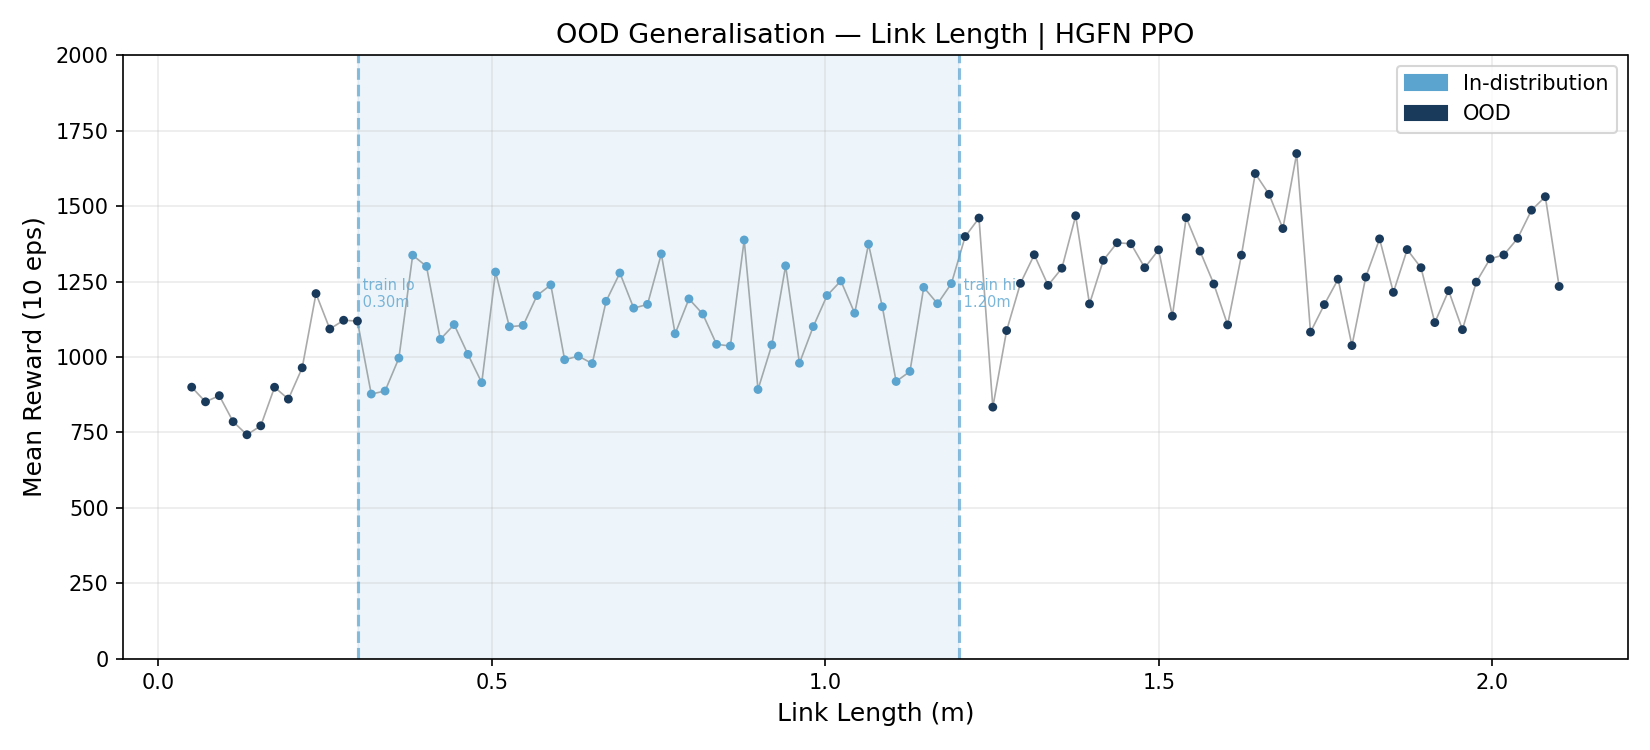
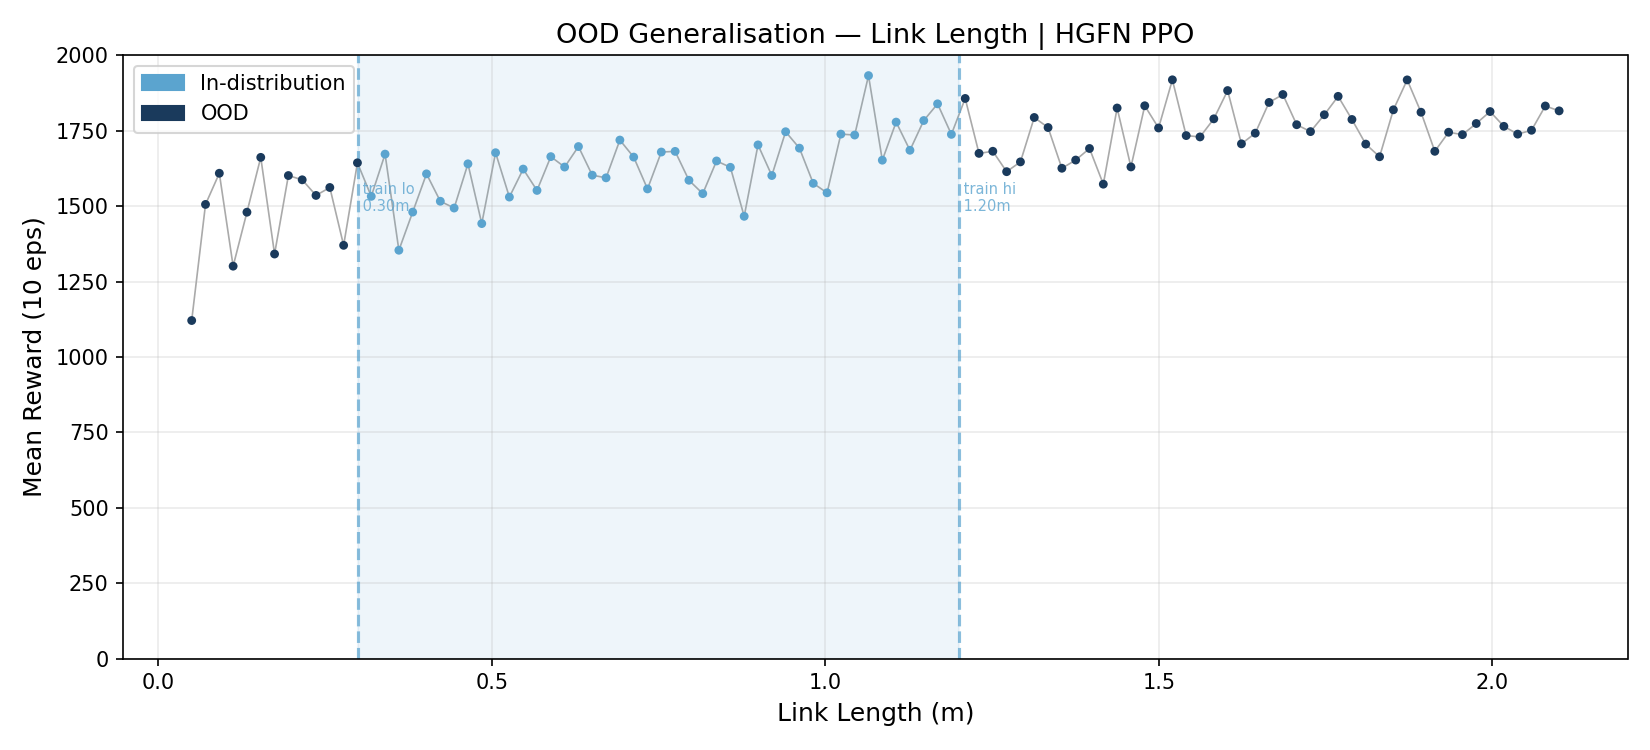
update results

diff --git a/eval/eval_hgfn.py b/eval/eval_hgfn.py
@@ -387,10 +387,8 @@ def main():
 
     # Print learned physics weights from checkpoint
     beta_val = float(policy.encoder.icga_layers[0].physics_beta.item())
-    wH_val   = float(policy.w_H.item())
     print(f"\nLearned physics weights (from checkpoint):")
     print(f"  β  (inertia attention scale) = {beta_val:+.4f}")
-    print(f"  w_H (Hamiltonian critic weight) = {wH_val:+.4f}")
 
     # Inference timing benchmark
     _timing_env = make_fixed_env(cfg, link_length=0.75, link_mass=1.05)